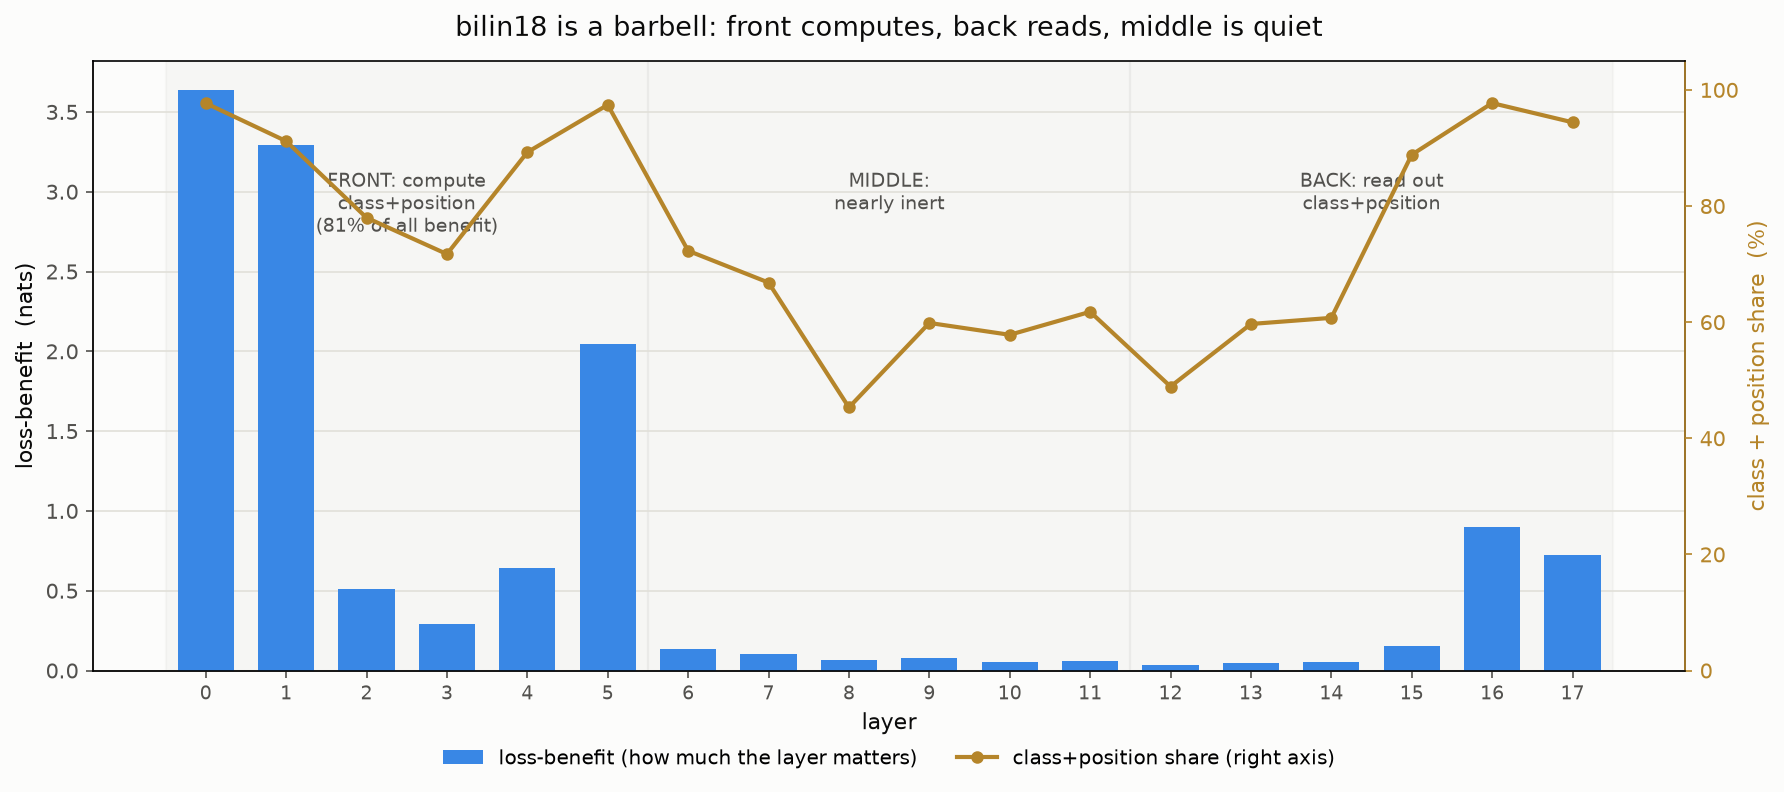
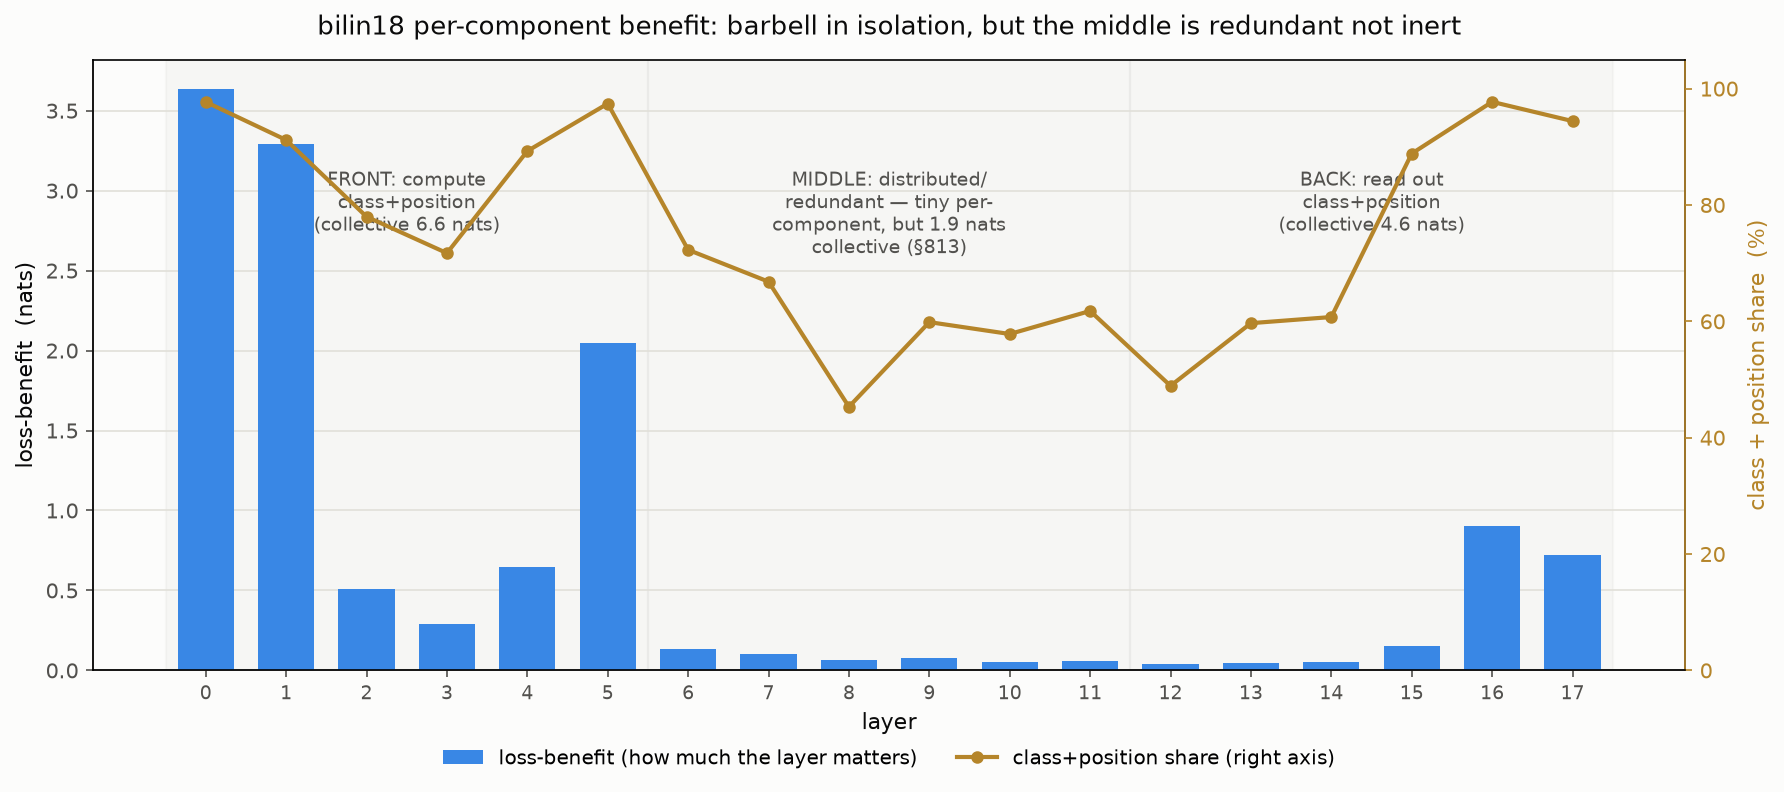
writeup 813: CORRECTION of 812 — middle NOT skippable. Simultaneous ablation of layers 6-11 costs 1.93 nats vs 0.49 per-component sum (3.9x super-additive = distributed/redundant computation). Barbell holds only per-component; model is not front+back. Corrected figure annotation + RESULTS line; metr
Claude-Session: https://claude.ai/code/session_01U2g27AYkgJeumNFPGf46Dd

diff --git a/basis_aligned/bilinear_quotient/whole_stack_barbell.py b/basis_aligned/bilinear_quotient/whole_stack_barbell.py
@@ -35,7 +35,7 @@ ax.bar(L, ben, color=BLUE, width=0.7, zorder=3, label='loss-benefit (how much th
 ax.set_ylabel('loss-benefit  (nats)', fontsize=10.5, color=INK)
 ax.set_xlabel('layer', fontsize=10.5, color=INK)
 ax.set_xticks(L); ax.set_xticklabels(L, fontsize=9, color=INK)
-ax.set_title('bilin18 is a barbell: front computes, back reads, middle is quiet', fontsize=13, color=INK, pad=12)
+ax.set_title('bilin18 per-component benefit: barbell in isolation, but the middle is redundant not inert', fontsize=12.5, color=INK, pad=12)
 
 ax2 = ax.twinx()
 ax2.plot(L, kw*100, color=ACCENT, lw=2, marker='o', ms=5, zorder=4, label='class+position share (right axis)')
@@ -43,10 +43,10 @@ ax2.set_ylabel('class + position share  (%)', fontsize=10.5, color=ACCENT)
 ax2.set_ylim(0, 105); ax2.tick_params(colors=ACCENT)
 ax2.spines['right'].set_color(ACCENT)
 
-# band annotations
-for x0, x1, txt in [(-0.5, 5.5, 'FRONT: compute\nclass+position\n(81% of all benefit)'),
-                    (5.5, 11.5, 'MIDDLE:\nnearly inert'),
-                    (11.5, 17.5, 'BACK: read out\nclass+position')]:
+# band annotations (bars = per-component benefit; collective = simultaneous band-ablation cost, §813)
+for x0, x1, txt in [(-0.5, 5.5, 'FRONT: compute\nclass+position\n(collective 6.6 nats)'),
+                    (5.5, 11.5, 'MIDDLE: distributed/\nredundant — tiny per-\ncomponent, but 1.9 nats\ncollective (§813)'),
+                    (11.5, 17.5, 'BACK: read out\nclass+position\n(collective 4.6 nats)')]:
     ax.axvspan(x0, x1, color=MUTED, alpha=0.05, zorder=0)
     ax.text((x0+x1)/2, ax.get_ylim()[1]*0.82, txt, ha='center', va='top', fontsize=9, color=SECONDARY)
 

diff --git a/basis_aligned/bilinear_quotient/BILIN18_CONNECTION.md b/basis_aligned/bilinear_quotient/BILIN18_CONNECTION.md
@@ -24926,3 +24926,37 @@ class+position, the late output MLPs read them, and the middle is a quiet transp
 with little new computation to name. There is no rich mid-stack of undiscovered variables —
 answering the "move up the stack" question (option 3): the mid-stack is quiet, not hiding
 structure. Figure whole_stack_barbell.png sent to user.
+
+## §813 — CORRECTION of §812: the middle is NOT skippable. Simultaneous ablation of layers 6–11 costs 1.93 nats (≈4× the per-component sum) — distributed/redundant computation, not inert (middle_skippable.py)
+
+§812 called the middle (layers 6–11) "nearly inert" because its per-COMPONENT loss-benefit
+summed to only 0.49 nats. The causal capstone refutes the "inert/skippable" reading:
+
+| band ablated (all its components at once) | CE cost (nats) | per-component sum | compounding |
+|-------------------------------------------|---------------:|------------------:|------------:|
+| FRONT (0–5)  | 6.61 | 10.42 | 0.6× (sub-additive) |
+| MIDDLE (6–11)| **1.93** | 0.49 | **3.9× (super-additive)** |
+| BACK (12–17) | 4.55 | 1.91 | 2.4× |
+| (CE_full 3.32; ablate-all 12.42) | | | |
+
+Prediction (a) "middle skippable (<0.4 nats)" was FALSE — the middle costs 1.93 nats when
+removed as a whole. Prediction (b) held (front 6.6 > back 4.6 > middle 1.9, so the middle is
+still the least-important band and the low cost is not a generic "ablating 12 things is
+cheap" artifact). The error in §812 was the interpretive leap from low per-component benefit
+to "inert". The middle's per-component benefit is low because its work is DISTRIBUTED and
+REDUNDANT: remove any single middle component and the others compensate (individual cost
+0.02–0.09), but the band collectively contributes 1.93 nats — a 3.9× super-additive
+compounding, the classic signature of redundant distributed computation. (The front is the
+opposite — SUB-additive, 0.6×: its components do partly-overlapping work so the whole is
+less than the sum, meaning the front's real contribution is concentrated in fewer effective
+directions than its per-component sum implies.)
+
+Corrected picture: the BARBELL holds only as a statement about PER-COMPONENT ablation cost
+(front/back components individually matter more than middle components), NOT as a claim that
+the middle is functionally removable. The model is not front+back; the middle does ~1.9 nats
+of genuine, distributed, mutually-compensating computation. This also flags a metric caveat:
+the per-component nat-weighted class+position share (§807/808, 0.92) UNDER-weights redundant
+regions like the middle (whose class+position keep was the lowest band, ~0.63), so the true
+whole-model class+position share is somewhat below the per-component headline — consistent
+with the stricter simultaneous metric (bilin18 0.78, §794). RESULTS/§812 and the barbell
+figure annotation corrected.

diff --git a/basis_aligned/bilinear_quotient/RESULTS.md b/basis_aligned/bilinear_quotient/RESULTS.md
@@ -4546,4 +4546,5 @@ Full detail in `BILIN18_CONNECTION.md` §260.
   §809 early_understood_corrected — ANSWER to 'how much of early layers understood?': 93% of layers 0-5 loss-benefit is class+position (whole model 92%). Highest-benefit early components (attn0/1/5, mlp0) are 97-99% understood; remainder concentrated in small low-benefit MLPs (mlp1 26%, mlp2 62%, mlp3 55%). Figure sent. Corrected class+position program closed
   §810 mlp1_remainder — mlp1's 26% remainder is mostly DIFFUSE (residual eff-rank 462, no clean low-rank handle) but contains real modest previous-token (net +0.075 over random) AND class×position-interaction (net +0.089) components, each ~2× a matched random null; neither closes the gap (keep tops 0.89). Not a clean third variable; diffuse residue with faint nameable structure. Sweep queued (mlp1/2/3 general?)
   §811 mlp_remainder_sweep — prev-token + class×position interaction is a GENERAL early-MLP remainder recipe (mlp1/2/3), the two capture DIFFERENT slices (both > either alone everywhere), net-over-random +0.087/+0.187/+0.194; residual stays high-rank (462-497), small MLPs = tiny benefit
-  §812 whole-stack BARBELL (from §808 data) — front (0-5) computes class+position benefit 10.4 keep 0.93; back (15-17) reads it out benefit 1.9 keep 0.93; middle (6-11) nearly inert benefit 0.49. Attentions ~0.9-1.0 class+pos everywhere; low-class+pos components = small low-benefit MLPs. Validates amortized reading; no rich mid-stack of hidden variables (answers 'move up stack'). Figure sent
+  §812 whole-stack BARBELL (from §808 data) — front (0-5) computes class+position benefit 10.4 keep 0.93; back (15-17) reads it out benefit 1.9 keep 0.93; middle (6-11) nearly inert benefit 0.49. Attentions ~0.9-1.0 class+pos everywhere; low-class+pos components = small low-benefit MLPs. Validates amortized reading; no rich mid-stack of NEW VARIABLES (answers 'move up stack'). Figure sent. [CORRECTED by §813: 'inert' was wrong — middle is distributed/redundant, 1.9 nats collective]
+  §813 CORRECTION of §812 (middle_skippable) — the middle is NOT skippable: simultaneous ablation of layers 6-11 costs 1.93 nats vs 0.49 per-component sum (3.9× super-additive = distributed/redundant computation). Barbell holds only as a PER-COMPONENT statement; model is NOT front+back. Front is sub-additive (0.6×), back 2.4×. Metric caveat: per-component nat-weight under-weights redundant middle, so true whole-model class+position < 0.92 headline (consistent with simultaneous 0.78)
